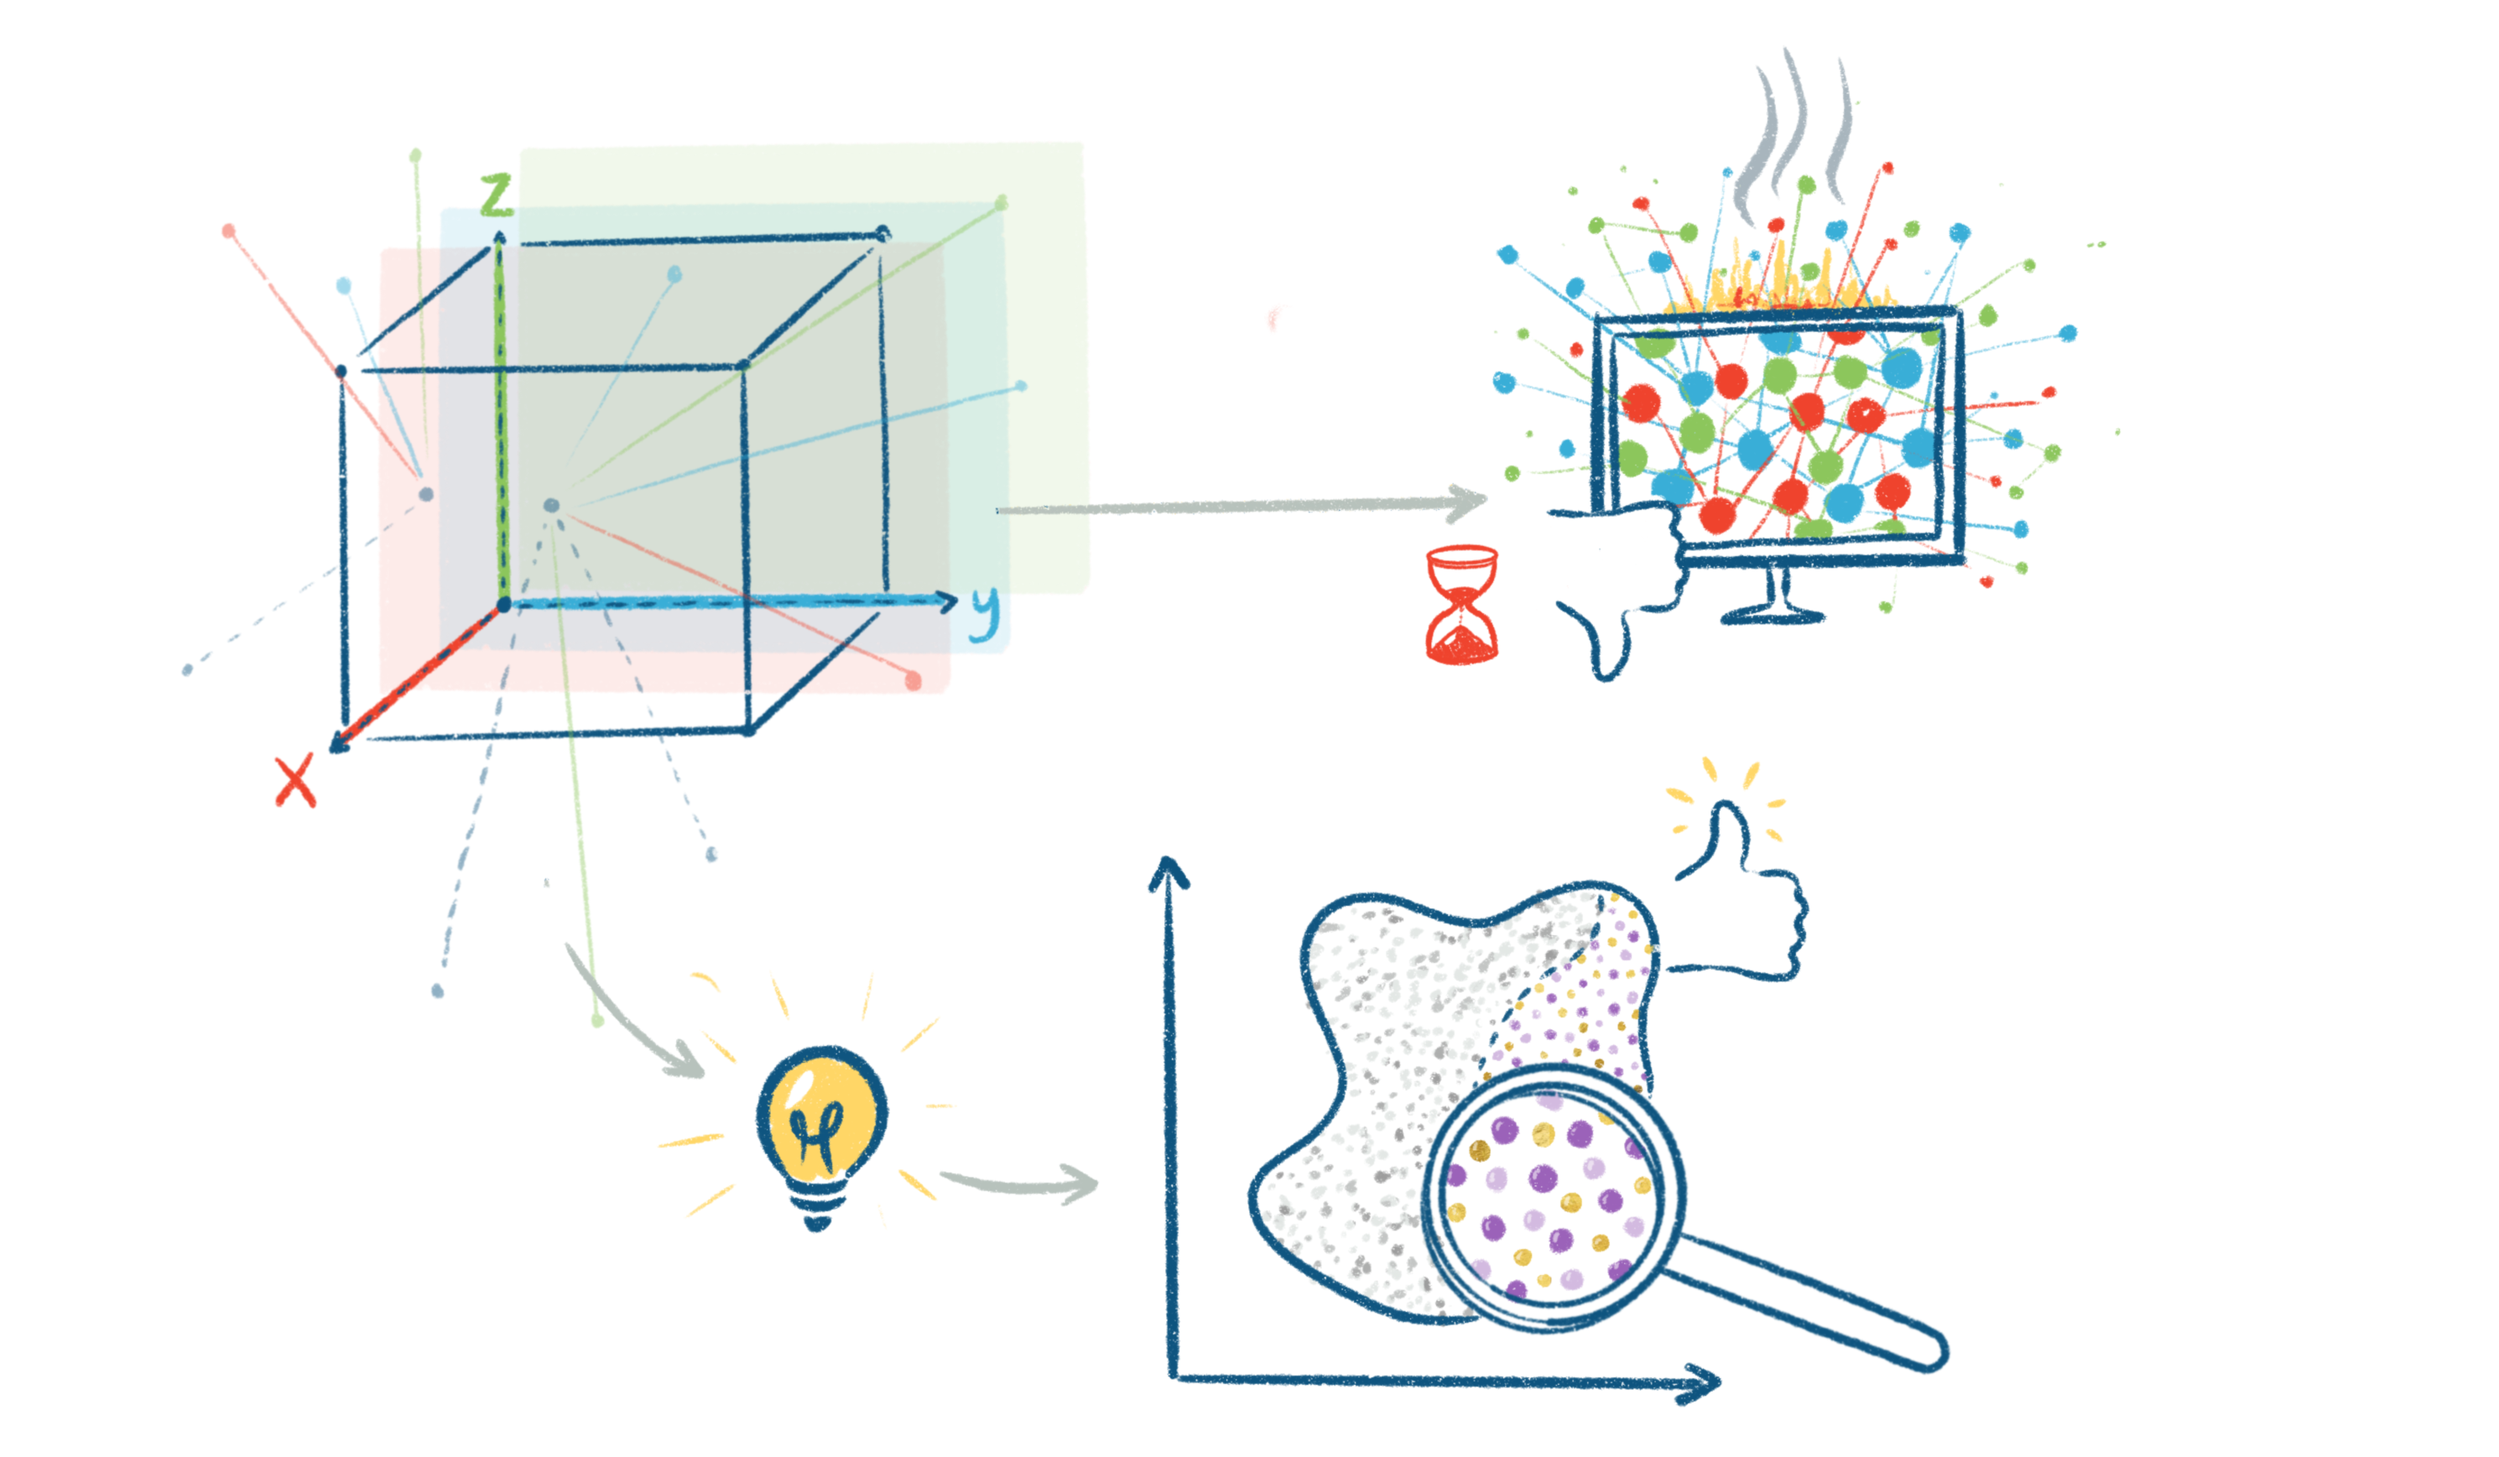
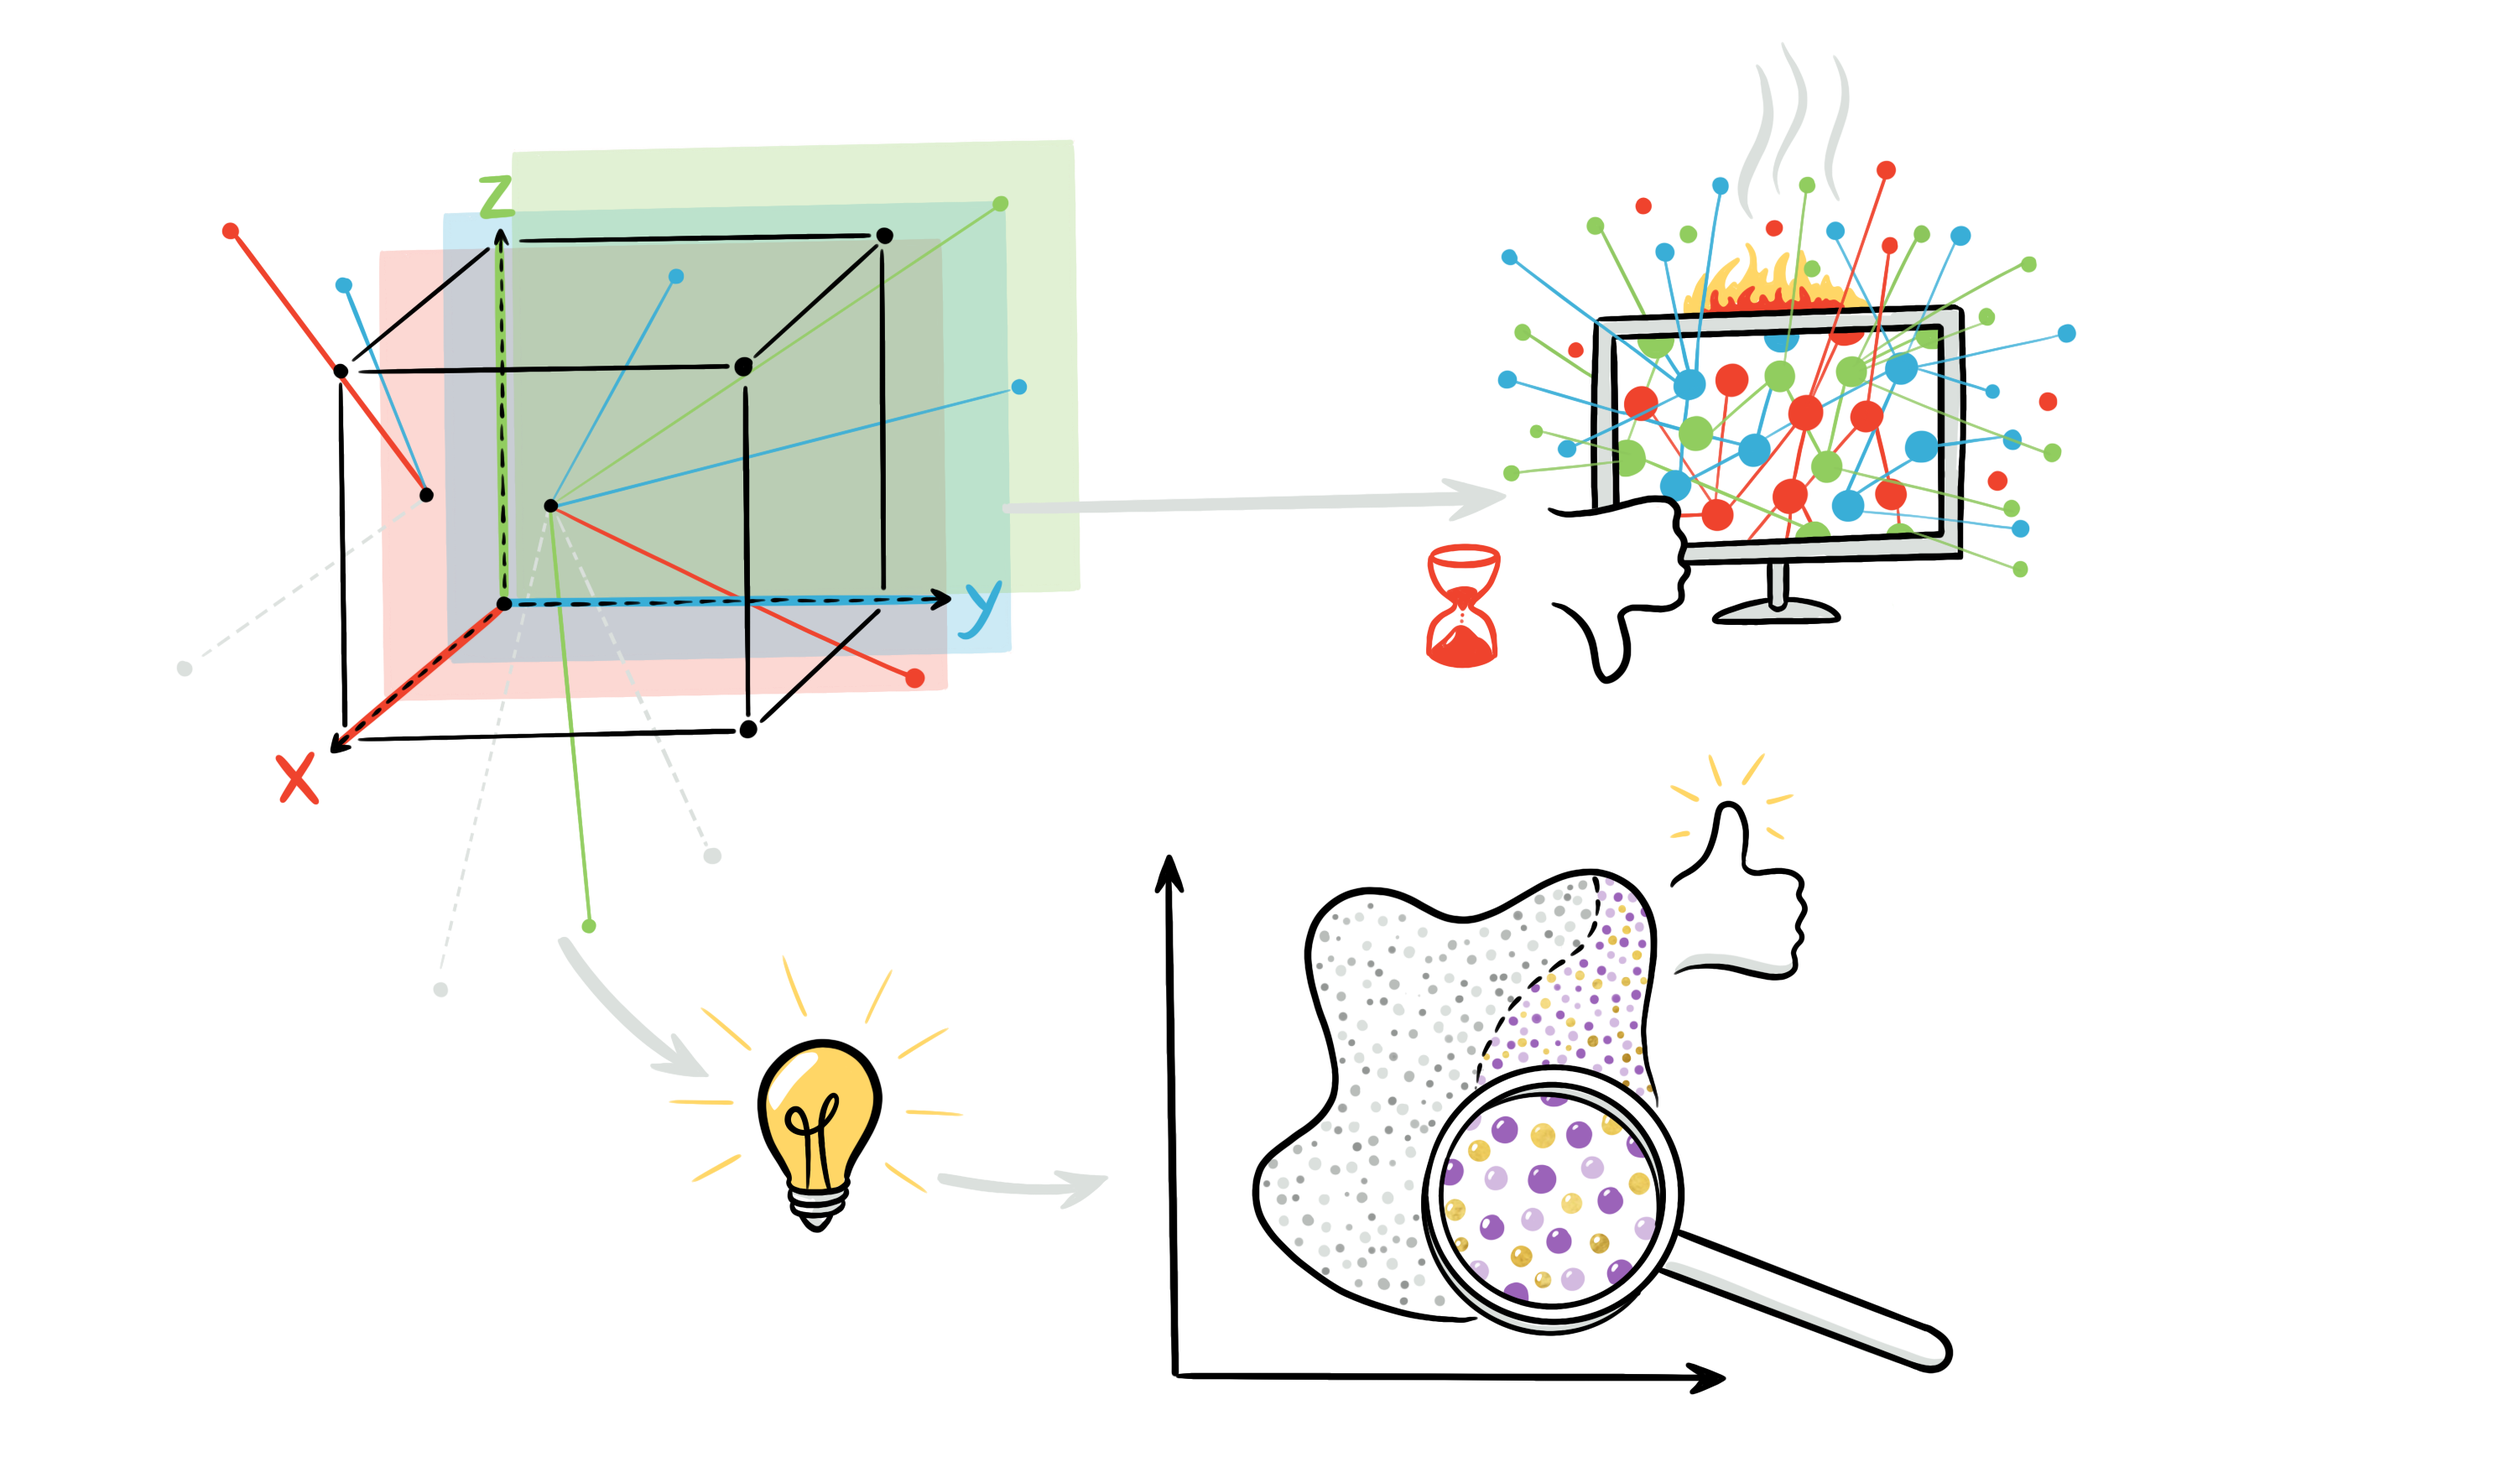
Project pages updated to new research areas: including new project description, strong-contrast images, new ordering, and new reference text on the front page.

diff --git a/content/project/numerical-simulation-methods/index.md b/content/project/numerical-simulation-methods/index.md
@@ -13,7 +13,7 @@ authors:
 - goerguen
 
 # Determines ordering of projects
-weight: 6
+weight: 3
 
 # Optional external URL for project (replaces project detail page).
 external_link: ""
@@ -47,8 +47,8 @@ slides: ""
 math: true
 ---
 
-While solving quantum many-body problems is generally hard for classical computers, one can still get quite far by using suitable approximate simulation methods. For example, for weakly interacting systems, mean-field or perturbative methods can work decently, taking into account interactions only in an approximate manner. Numerical methods for quantum many-body systems which work well in certain regimes and have controlled errors are also important to certify the correct functioning of quantum simulators.
+Quantum many-body problems are generically hard for classical computers as the Hilbert space grows exponentially with system size, making brute-force simulation quickly intractable. Yet, clever approximate methods can be surprisingly powerful. For weakly interacting systems, mean-field and perturbative approaches capture the essential physics; more broadly, methods with controlled errors are also invaluable for benchmarking quantum simulators.
 
-Our goal is to advance such methods with a focus on semiclassical and variational simulation methods. Semiclassical methods exploit that quantum fluctuations can be treated in a perturbative fashion in certain cases. While quantum particles come with an intrinsic uncertainty about their position, the most likely trajectory they will take is still the one predicted by classical physics. In the semi-classical regime, quantum fluctuations around it become small. We exploit this to efficiently simulate spin systems using the so-called discrete truncated Wigner approximation. Variational approaches build on the insight that the physical time evolution of a quantum systems stays confined to a relatively small part of the entire state space. We seek to find parameterizations of the relevant set of states using neural networks to find ground states or to simulate the dynamics of open quantum systems.
+Our focus is on variational simulation methods, built on a simple but powerful observation: Physically relevant quantum states occupy only a tiny corner of the full Hilbert space. So, rather than navigating the whole space, we represent the quantum state within a much lower-dimensional subspace, as illustrated in the figure. The central challenge is designing ansatzes that encode the right physical prior knowledge about the relevant class of states. We use neural networks for this purpose: their expressiveness makes them natural candidates for capturing complex quantum correlations, and we apply them to find ground states and simulate the dynamics of open quantum systems.
 
 

diff --git a/content/project/quantum-readout/index.md b/content/project/quantum-readout/index.md
@@ -16,7 +16,7 @@ authors:
 - menhofer
 
 # Determines ordering of projects
-weight: 7
+weight: 2
 
 # Optional external URL for project (replaces project detail page).
 external_link: ""
@@ -50,8 +50,8 @@ slides: ""
 math: true
 ---
 
-The efficient characterization of quantum states and processes through measurements is central to quantum technologies; be it to certify relevant resources like entanglement, or to extract relevant observables in quantum simulation experiments. A challenge arises due to the fundamental difference of quantum measurements and measurements on classical objects. Fully characterizing a quantum system requires preparing multiple copies of the same state and measuring these with different measurement settings. When applied to composite quantum systems this procedure becomes infeasible beyond a handful of particles due to the large number of required experimental runs.
+The efficient characterization of quantum states and processes through measurements is central to quantum technologies; be it to certify relevant resources like entanglement, or to extract relevant observables in quantum simulation experiments. A challenge arises due to the fundamental difference of quantum measurements and measurements on classical objects. Fully characterizing a quantum system requires preparing multiple copies of the same state and measuring these in different measurement settings, as illustrated in the figure above. When applied to composite quantum systems, this procedure becomes infeasible beyond a handful of particles, due to the large number of required experimental runs.
 
-We develop strategies to overcome this obstacle, for example, by exploiting prior knowledge about the quantum system at hand. Among all possible quantum states, most are very unlikely to occur in a given experimental situation. We seek to exploit this by building models that parameterize only the set of relevant states, so that the parameters of these models can then be inferred efficiently from measurements. For this, we often build on machine-learning techniques which are suitable to recognize and exploit the relevant physical structures.
+We develop strategies to overcome this obstacle, for example, by exploiting prior knowledge about the quantum system at hand. Among all possible quantum states most are very unlikely to occur in a given experimental situation. We seek to exploit this by building models that parameterize only the set of relevant states, so that the parameters of these models can then be inferred efficiently from measurements. For this, we often build on machine learning techniques which are suitable to recognize and exploit the relevant physical structures.
 
 

diff --git a/content/home/research.md b/content/home/research.md
@@ -4,4 +4,13 @@ headless: true
 title: "Research"
 weight: 30
 ---
-Quantum technologies exploit non-classical properties such as quantum superposition and entanglement to devise techniques for imaging, sensing, secure communication, and computing. An important goal of our research is to come up with new ideas how to use synthetic quantum systems as physical simulation devices to explore quantum many-body phenomena. This requires the development of methods for benchmarking these devices using tools from quantum information theory and machine learning. Specifically, we develop methods for efficiently characterizing quantum states from measurements, for example quantifying their entanglement, and for simulating quantum many-body physics on classical computers, thereby pushing the limits of numerical methods.
+Quantum technologies exploit nonclassical properties such as quantum superposition and entanglement to devise techniques for imaging, sensing, secure communication, and computing. An important goal of our research is to come up with new ideas how to use synthetic quantum systems as physical simulation devices to explore quantum many-body phenomena. This requires the development of methods for benchmarking these devices using tools from quantum information theory and machine learning. Specifically, we develop methods for efficiently characterizing quantum states from measurements, for example quantifying their entanglement, and for simulating quantum many-body physics on classical computers, thereby pushing the limits of numerical methods.
+
+Current research topics include:
+- Quantum simulation of quantum field theories using photons and cold atoms
+- Machine-learning-assisted certification of nonclassical states
+- Detection of continuous-variable entanglement
+- Neural-network quantum states for efficient simulation of quantum dynamics
+- Quantum algorithms for simulating light propagation
+
+Further details can be found under [Research](/research), including a list of our [Publications](/publication).

diff --git a/content/project/quantum-simulation/index.md b/content/project/quantum-simulation/index.md
@@ -15,7 +15,7 @@ authors:
 - guschakowski
 
 # Determines ordering of projects
-weight: 8
+weight: 1
 
 # Optional external URL for project (replaces project detail page).
 external_link: ""
@@ -51,5 +51,5 @@ math: true
 
 Quantum systems of many interacting particles are notoriously difficult to simulate on classical computers. This limits progress, for example, in predicting the properties of molecules or solids, or understanding fundamental questions about the non-equilibrium dynamics of complex quantum systems. A way to overcome this problem is to use computers that themselves exploit the laws of quantum mechanics to efficiently simulate quantum systems. Such a quantum simulator is able to mimic a given quantum system of interest by a synthetic quantum system in the lab. The advantage is that the latter allows us to control the simulation parameters freely and observe the system at the microscopic level.
 
-Our task as theorists is to find suitable problems and develop tailored schemes to simulate them on a given experimental platform. An example is the simulation of quantum field theories on curved spacetimes using photons. Here, we seek to reformulate the original model in such a way that it becomes possible to map the resulting quantum dynamics onto a network of optical elements such as beam splitters and phase shifters, which can be realized experimentally, for example using wave-guide arrays. 
-
+Our task as theorists is to find suitable problems and develop tailored schemes to simulate them on a given experimental platform. The figure above illustrates this for the example of simulating quantum field theories on curved spacetimes using photons. Here, we seek to reformulate the original model in such a way that it becomes possible to map the resulting quantum dynamics onto a network of optical elements such as beam splitters and phase shifters, which can be realized experimentally, for example, using wave guide arrays. 
+:

diff --git a/content/research/projects.md b/content/research/projects.md
@@ -5,7 +5,7 @@ headless = true  # This file represents a page section.
 active = true  # Activate this widget? true/false
 weight = 20  # Order that this section will appear.
 
-title = "Projects"
+title = "Research Areas"
 subtitle = ""
 
 [content]
